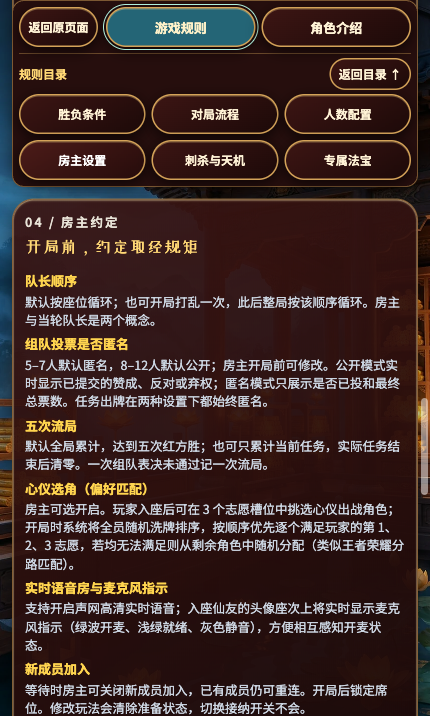
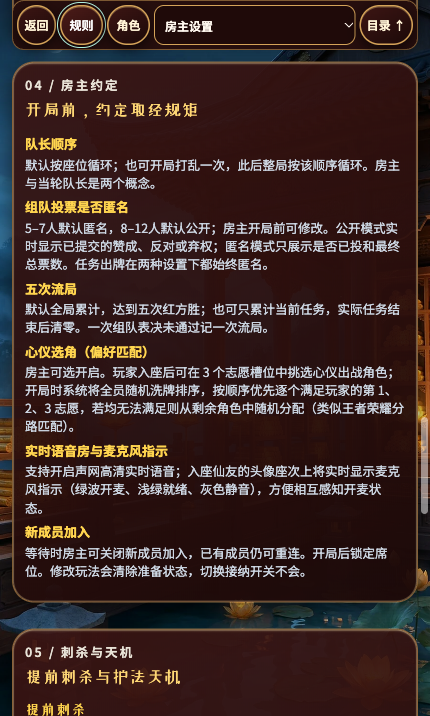
fix(web): shrink guide toolbar and remove duplicate top inset

diff --git a/docs/ui-navigation-spacing/viewport-audit.playwright.js b/docs/ui-navigation-spacing/viewport-audit.playwright.js
@@ -19,19 +19,26 @@ async (page) => {
       return { user, waiting: room, proposing, discussion: { ...proposing, game: projectGame(game, captainId) }, teamSize: team.length };
     });
   });
-  let current = fixtures[0], stage = 'waiting';
+  let current = fixtures[0], stage = 'waiting', simulatedSafeAreaTop = 0, waitingReady = true;
   await page.unrouteAll({ behavior: 'wait' });
+  // Simulate a browser reporting a top inset, including Vite's injected CSS.
+  await page.route('**/src/*.css', async route => {
+    const response = await route.fetch();
+    const body = (await response.text()).replace(/env\(safe-area-inset-top(?:,[^)]*)?\)/g, `${simulatedSafeAreaTop}px`);
+    await route.fulfill({ response, body });
+  });
   await page.route('**/api/**', route => {
     const path = new URL(route.request().url()).pathname;
+    const room = stage === 'waiting' ? { ...current.waiting, members: current.waiting.members.map(m => ({ ...m, ready: waitingReady })) } : current[stage];
     const json = path === '/api/me' ? { user: current.user, roomId: current[stage].id }
-      : path.includes('/rooms/') ? { room: current[stage], invite: '' }
+      : path.includes('/rooms/') ? { room, invite: '' }
       : path.endsWith('/friends') ? { friends: [] }
       : { announcement: { enabled: false, text: '' }, freeAccessMode: true };
     return route.fulfill({ json });
   });
   await page.routeWebSocket('**/api/rooms/*/socket', ws => ws.onMessage(() => {}));
   const viewports = [{ width: 320, height: 568 }, { width: 375, height: 553 }, { width: 390, height: 844 }, { width: 430, height: 716 }, { width: 640, height: 900 }];
-  const tables = [], guides = [];
+  const tables = [], guides = [], topInsets = [];
   const check = (condition, message, data) => { if (!condition) throw new Error(`${message}: ${JSON.stringify(data)}`); };
   const settle = () => page.evaluate(async () => { await document.fonts.ready; await new Promise(r => requestAnimationFrame(() => requestAnimationFrame(r))); });
   for (current of fixtures) {
@@ -64,6 +71,43 @@ async (page) => {
       tables.push({ count: current.waiting.settings.playerCount, viewport, stages: pair });
     }
   }
+  // Cover the nonzero inset missed by the original desktop-browser audit.
+  current = fixtures.at(-1);
+  simulatedSafeAreaTop = 44;
+  await page.setViewportSize({ width: 430, height: 716 });
+  const recordInset = async name => {
+    await page.evaluate(() => { window.scrollTo(0, 0); document.querySelector('main').scrollTop = 0; });
+    await settle();
+    const metrics = await page.evaluate(() => ({ top: document.querySelector('.room-top-bar').getBoundingClientRect().top, paddingTop: getComputedStyle(document.querySelector('main')).paddingTop, overflow: document.documentElement.scrollWidth > innerWidth }));
+    check(metrics.top === 4 && !metrics.overflow, 'Duplicate top inset', { name, simulatedSafeAreaTop, ...metrics });
+    topInsets.push({ name, simulatedSafeAreaTop, ...metrics });
+  };
+  for (stage of ['waiting', 'proposing', 'discussion']) {
+    await page.reload();
+    await page.locator(stage === 'waiting' ? '.waiting-settings-summary' : `[data-phase="${stage}"]`).waitFor();
+    await settle();
+    await recordInset(stage);
+  }
+  stage = 'waiting';
+  waitingReady = false;
+  await page.reload();
+  await page.getByRole('dialog', { name: '准备提醒', exact: true }).waitFor();
+  await page.getByRole('button', { name: '稍后准备', exact: true }).click();
+  await recordInset('waiting-unready');
+  await page.screenshot({ path: 'docs/ui-navigation-spacing/waiting-inset-430.png' });
+  await page.getByRole('button', { name: /幻化分身试玩/ }).click();
+  await page.locator('.is-practice-top-bar').waitFor();
+  await page.getByRole('button', { name: '⚡ 电脑代操下一步', exact: true }).click();
+  for (let i = 0; i < current.teamSize; i++) await page.locator('.table-seat-card').nth(i).click();
+  await page.getByRole('button', { name: `预选阵容 (${current.teamSize}/${current.teamSize})`, exact: true }).waitFor();
+  await recordInset('practice-proposing');
+  await page.getByRole('button', { name: `预选阵容 (${current.teamSize}/${current.teamSize})`, exact: true }).click();
+  await page.locator('[data-phase="discussion"]').waitFor();
+  await page.getByRole('button', { name: '已确认阵容 · 开启投票', exact: true }).waitFor();
+  await recordInset('practice-discussion');
+  await page.screenshot({ path: 'docs/ui-navigation-spacing/practice-inset-430.png' });
+  await page.getByRole('button', { name: '退出试玩', exact: true }).click();
+  waitingReady = true;
   stage = 'waiting';
   for (const viewport of viewports) {
     await page.setViewportSize(viewport);
@@ -72,30 +116,33 @@ async (page) => {
     for (const category of ['游戏规则', '角色介绍']) {
       await page.getByRole('button', { name: category, exact: true }).click();
       await settle();
-      const buttons = page.locator('.guide-index button');
-      const count = await buttons.count();
+      const select = page.getByRole('combobox', { name: category === '游戏规则' ? '跳转规则章节' : '跳转角色介绍', exact: true });
+      const options = await select.locator('option').evaluateAll(es => es.filter(e => e.value).map(e => ({ id: e.value, title: e.textContent })));
+      const count = options.length;
       for (let i = 0; i < count; i++) {
-        await buttons.nth(i).click();
-        const metrics = await page.evaluate(({ category, i }) => {
+        await select.selectOption(options[i].id);
+        const metrics = await page.evaluate(id => {
           const nav = document.querySelector('.guide-navigation').getBoundingClientRect();
-          const targets = category === '游戏规则' ? [...document.querySelectorAll('.guide-section')]
-            : [...document.querySelectorAll('.guide-index button')].map(b => [...document.querySelectorAll('.guide-role')].find(r => r.querySelector('h3')?.textContent.includes(b.textContent)));
-          const target = targets[i]?.getBoundingClientRect();
-          return { navTop: nav.top, navBottom: nav.bottom, targetTop: target?.top, visibleButtons: [...document.querySelectorAll('.guide-navigation button')].every(b => { const r = b.getBoundingClientRect(); return r.left >= 0 && r.right <= innerWidth && r.top >= 0 && r.bottom <= innerHeight; }), overflow: document.documentElement.scrollWidth > innerWidth };
-        }, { category, i });
-        check(metrics.visibleButtons && !metrics.overflow && metrics.targetTop >= metrics.navBottom - 1 && metrics.targetTop < viewport.height, 'Chapter hidden by navigation', { viewport, category, i, ...metrics });
+          const target = document.getElementById(id)?.getBoundingClientRect();
+          return { navTop: nav.top, navBottom: nav.bottom, navHeight: nav.height, targetTop: target?.top, visibleControls: [...document.querySelectorAll('.guide-navigation button,.guide-navigation select')].every(b => { const r = b.getBoundingClientRect(); return r.width > 0 && r.left >= 0 && r.right <= innerWidth && r.top >= 0 && r.bottom <= innerHeight; }), overflow: document.documentElement.scrollWidth > innerWidth };
+        }, options[i].id);
+        check(metrics.navHeight <= 54 && metrics.visibleControls && !metrics.overflow && metrics.targetTop >= metrics.navBottom - 1 && metrics.targetTop < viewport.height, 'Chapter hidden or toolbar too tall', { viewport, category, i, ...metrics });
       }
       if (category === '游戏规则') {
         check(await page.locator('.guide-config').count() === 8 && await page.locator('.guide-rules details').count() === 0, 'Configuration is hidden');
-        await page.getByRole('button', { name: '房主设置', exact: true }).click();
+        await select.selectOption('guide-rule-4');
       }
       if (viewport.width === 430) await page.screenshot({ path: `docs/ui-navigation-spacing/${category === '游戏规则' ? 'rules' : 'roles'}-430.png` });
-      await page.getByRole('button', { name: '返回目录 ↑', exact: true }).click();
-      check(await page.evaluate(() => scrollY) === 0, 'Return to directory failed', { viewport, category });
-      guides.push({ viewport, category, chapters: count, pass: true });
+      await page.getByRole('button', { name: '返回目录', exact: true }).click();
+      const directory = await page.locator('#guide-directory').boundingBox(), toolbar = await page.locator('.guide-navigation').boundingBox();
+      check(directory.y >= toolbar.y + toolbar.height && directory.y < viewport.height, 'Return to directory failed', { viewport, category, directory, toolbar });
+      check(await page.locator('.guide-index button').count() === count, 'Missing full index entries', { viewport, category });
+      await page.locator('.guide-index button').first().click();
+      check(await select.inputValue() === options[0].id, 'Index does not synchronize jump selector', { viewport, category });
+      guides.push({ viewport, category, chapters: count, toolbarHeight: toolbar.height, pass: true });
     }
     await page.getByRole('button', { name: '返回原页面', exact: true }).click();
     await page.locator('.waiting-settings-summary').waitFor();
   }
-  return { tables, guides, pass: true };
+  return { tables, topInsets, guides, pass: true };
 }

diff --git a/apps/web/src/GuidePanel.tsx b/apps/web/src/GuidePanel.tsx
@@ -12,13 +12,16 @@ export { roleDescriptions, roleTreasures };
 
 const allRoles=Object.keys(roleNames) as Role[];
 const ruleChapters=['胜负条件','对局流程','人数配置','房主设置','刺杀与天机','专属法宝'];
-function GuideIndex({section}:{section:'rules'|'roles'}) {
-  const chapters=section==='rules'
+type GuideSection='rules'|'roles';
+function guideChapters(section:GuideSection) {
+  return section==='rules'
     ? ruleChapters.map((title,i)=>({title,id:`guide-rule-${i+1}`}))
     : allRoles.map(role=>({title:roleNames[role],id:`guide-role-${role}`}));
-  return <div className="guide-directory">
-    <div className="guide-index-heading"><span>{section==='rules'?'规则目录':'角色目录'}</span><button type="button" className="secondary" onClick={()=>window.scrollTo({top:0})}>返回目录 ↑</button></div>
-    <nav className="guide-index" aria-label={section==='rules'?'规则章节定位':'角色快速定位'}>{chapters.map(({title,id})=><button type="button" className="secondary" key={id} onClick={()=>document.getElementById(id)?.scrollIntoView({block:'start'})}>{title}</button>)}</nav>
+}
+function GuideIndex({section,onJump}:{section:GuideSection;onJump:(id:string)=>void}) {
+  return <div className="guide-directory" id="guide-directory">
+    <p className="guide-index-heading">{section==='rules'?'规则目录':'角色目录'}</p>
+    <nav className="guide-index" aria-label={section==='rules'?'规则章节定位':'角色快速定位'}>{guideChapters(section).map(({title,id})=><button type="button" className="secondary" key={id} onClick={()=>onJump(id)}>{title}</button>)}</nav>
   </div>;
 }
 function composition(roles:Role[]) {
@@ -257,7 +260,8 @@ export function GuideRoles() {
   );
 }
 export function GuidePanel({onBack}:{onBack:()=>void}) {
-  const [section,setSection]=useState<'rules'|'roles'>('rules');
+  const [section,setSection]=useState<GuideSection>('rules');
+  const [destination,setDestination]=useState('');
   const guideRef=useRef<HTMLElement>(null);
   const navigationRef=useRef<HTMLDivElement>(null);
   useLayoutEffect(()=>{
@@ -270,13 +274,26 @@ export function GuidePanel({onBack}:{onBack:()=>void}) {
     return ()=>observer.disconnect();
   },[]);
   usePageSound(section);
-  const changeSection=(next:'rules'|'roles')=>{setSection(next);window.scrollTo({top:0});};
+  const changeSection=(next:GuideSection)=>{setSection(next);setDestination('');window.scrollTo({top:0});};
+  const jumpTo=(id:string)=>{setDestination(id);document.getElementById(id)?.scrollIntoView({block:'start'});};
+  const returnToDirectory=()=>{setDestination('');document.getElementById('guide-directory')?.scrollIntoView({block:'start'});};
   return <section className="guide guide-flow" ref={guideRef}>
     <div className="guide-navigation" ref={navigationRef}>
-    <div className="guide-controls"><button className="secondary" onClick={onBack}>返回原页面</button><nav className="guide-nav" aria-label="说明分类"><button className="secondary" aria-pressed={section==='rules'} onClick={()=>changeSection('rules')}>游戏规则</button><button className="secondary" aria-pressed={section==='roles'} onClick={()=>changeSection('roles')}>角色介绍</button></nav></div>
-    <GuideIndex section={section}/>
+      <div className="guide-controls">
+        <button type="button" className="secondary" aria-label="返回原页面" onClick={onBack}>返回</button>
+        <nav className="guide-nav" aria-label="说明分类">
+          <button type="button" className="secondary" aria-label="游戏规则" aria-pressed={section==='rules'} onClick={()=>changeSection('rules')}>规则</button>
+          <button type="button" className="secondary" aria-label="角色介绍" aria-pressed={section==='roles'} onClick={()=>changeSection('roles')}>角色</button>
+        </nav>
+        <select className="guide-chapter-select" aria-label={section==='rules'?'跳转规则章节':'跳转角色介绍'} value={destination} onChange={e=>jumpTo(e.target.value)}>
+          <option value="" disabled>章节跳转</option>
+          {guideChapters(section).map(({title,id})=><option key={id} value={id}>{title}</option>)}
+        </select>
+        <button type="button" className="secondary" aria-label="返回目录" onClick={returnToDirectory}>目录 ↑</button>
+      </div>
     </div>
     <div className="guide-heading"><div><p className="eyebrow">JOURNEY TO THE WEST / 真假猴王秘卷</p><h1>《嘻游 · 真假猴王》</h1><p className="muted">一念佛魔皆幻相，谁是修道取经人</p></div></div>
+    <GuideIndex section={section} onJump={jumpTo}/>
     {section==='rules'?<GuideRules/>:<GuideRoles/>}
   </section>;
 }

diff --git a/apps/web/src/player-flow.css b/apps/web/src/player-flow.css
@@ -85,7 +85,7 @@ main.app-shell.is-live-table { --table-gap: 8px; }
 .game-play-priority .mission-submit-btn { margin-top: 0 !important; }
 /* Recover phone viewport space through spacing, preserving text and avatar sizes. */
 @media (max-width: 600px) {
-  main.app-shell.is-live-table { --table-gap: 4px; padding-top: max(4px, env(safe-area-inset-top)) !important; }
+  main.app-shell.is-live-table { --table-gap: 4px; padding-top: 4px !important; }
   .is-live-table .waiting-play-priority .scheme3-ink-ribbon { min-height: 36px !important; }
   .is-live-table .waiting-play-priority .table-seats-grid { margin: 0 !important; row-gap: 12px !important; }
   .is-live-table .waiting-play-priority .waiting-dock { padding: 6px 8px !important; }
@@ -118,18 +118,19 @@ main.app-shell.is-live-table { --table-gap: 8px; }
 .round-jump-nav > button { flex: 0 0 auto; width: auto; min-height: 36px; padding: 5px 10px; margin: 0; white-space: nowrap; font: 600 12px/1.4 var(--sans); }
 .round-jump-nav [aria-pressed="true"] { border-color: #ffd875; background: #67231e; }
 .battle-round-anchor { scroll-margin-top: 62px; }
-.guide-flow .guide-navigation { position: sticky; top: 0; z-index: 5; padding: 6px; background: #260e0d; border: 1px solid #d4a35980; border-radius: 12px; }
-.guide-flow .guide-controls { display: flex; align-items: center; justify-content: space-between; gap: 8px; }
-.guide-controls > button { flex: 0 0 auto; width: auto; min-height: 40px; margin: 0; padding: 5px 8px; font-size: 12px; }
-.guide-controls .guide-nav { flex: 0 1 340px; display: flex; gap: 6px; margin: 0; }
-.guide-controls .guide-nav > button { flex: 1; min-width: 0; min-height: 40px; margin: 0; padding: 5px 7px; font-size: 13px; }
+.guide-flow .guide-navigation { position: sticky; top: 0; z-index: 5; padding: 4px; background: #260e0d; border: 1px solid #d4a35980; border-radius: 12px; }
+.guide-flow .guide-controls { display: flex; align-items: center; gap: 4px; }
+.guide-controls > button { flex: 0 0 auto; width: auto; height: 40px; min-height: 40px; margin: 0; padding: 4px 6px; font: 600 12px/1.4 var(--sans); white-space: nowrap; }
+.guide-controls .guide-nav { flex: 0 0 auto; display: flex; gap: 4px; margin: 0; }
+.guide-controls .guide-nav > button { flex: 0 0 auto; width: auto; height: 40px; min-height: 40px; margin: 0; padding: 4px 8px; font: 600 12px/1.4 var(--sans); white-space: nowrap; }
+.guide-controls .guide-chapter-select { flex: 1 1 0; width: 0; min-width: 0; height: 40px; min-height: 40px; margin: 0; padding: 4px 6px; border: 1px solid #d4a359; border-radius: 10px; font: 600 12px/1.4 var(--sans); }
 .guide-flow .guide-heading { padding: 10px 12px; margin-top: 8px; }
-/* Keep every chapter reachable after a jump, with no collapsed menus. */
-.guide-index-heading { display: flex; align-items: center; justify-content: space-between; gap: 8px; margin-top: 6px; border-top: 1px solid #d4a35966; padding-top: 4px; font: 600 12px/1.4 var(--sans); color: #ffd875; }
-.guide-index-heading > button { width: auto; min-height: 32px; margin: 0; padding: 4px 8px; box-shadow: none; font: 600 12px/1.4 var(--sans); }
+/* Only the single-row toolbar follows scrolling; the full index stays in flow. */
+.guide-directory { padding: 8px; border: 1px solid #d4a35966; border-radius: 12px; background: #260e0df5; }
+.guide-index-heading { margin: 0 0 6px; font: 600 12px/1.4 var(--sans); color: #ffd875; }
 .guide-index { display: grid; grid-template-columns: repeat(3,minmax(0,1fr)); gap: 6px; margin: 4px 0 0; }
 .guide-index > button { width: 100%; min-width: 0; min-height: 40px; padding: 6px 4px; margin: 0; white-space: nowrap; font: 600 12px/1.4 var(--sans); }
-.guide-flow .guide-section, .guide-flow .guide-role { scroll-margin-top: calc(var(--guide-navigation-height, 240px) + 12px); }
+.guide-flow :is(.guide-directory, .guide-section, .guide-role) { scroll-margin-top: calc(var(--guide-navigation-height, 50px) + 12px); }
 @media (max-width: 380px) {
   .account-flow .profile-bar { flex-direction: column; align-items: stretch; }
   .game-result-actions .result-actions { width: 100%; }

diff --git a/apps/web/src/scenes.css b/apps/web/src/scenes.css
@@ -832,7 +832,8 @@ main.app-shell.is-live-table {
   min-height: 100dvh;
   height: auto !important;
   max-height: none !important;
-  padding: max(6px, env(safe-area-inset-top)) 10px max(24px, env(safe-area-inset-bottom)) !important;
+  /* The browser already positions this viewport below its top chrome. */
+  padding: 6px 10px max(24px, env(safe-area-inset-bottom)) !important;
   overflow-x: hidden !important;
   overflow-y: auto !important;
   -webkit-overflow-scrolling: touch !important;

diff --git a/docs/ui-navigation-spacing/README.md b/docs/ui-navigation-spacing/README.md
@@ -2,19 +2,22 @@
 
 验收环境：本机 Vite + Chromium，使用模拟房间数据；未连接或修改 ECS 房间。
 
-- 规则与角色页：分类、章节导航和“返回目录”一起吸顶。锚点避让按导航实际高度计算，切换分类及窄屏换行后仍适用。
+- 规则与角色页：仅 50px 高的单行工具栏吸顶，提供返回、规则/角色切换、章节选择和返回目录。完整目录置于正文顶部，随正文滚动；正文始终直接展示。锚点避让按工具栏实际高度计算。
 - 规则配置：5–12 人配置全部直接显示，移除折叠组件。
-- 等待页：与对局页共用间距变量；手机顶部留白及顶部三栏之间均为 4px，大屏三栏间距为 8px。配置摘要高度与对局摘要对齐。
+- 等待、对局与试玩页：移除对浏览器顶部安全区的额外留白；手机首栏距网页顶部为 4px。顶部三栏共用 4px 间距，大屏为 8px，配置摘要高度与对局摘要对齐。
 - 组队阶段：发言前为“预选阵容”，顶部提示为“待提交预选”；论道后仍为“已确认阵容 · 开启投票”。
 
-验证：`npm run build`、61 项前端测试，以及浏览器布局检查。
+验证：`npm run build`、`guide-countdown.test.ts` 的 3 项相关测试，以及浏览器布局检查。
 
 | 检查 | 覆盖范围 | 结果 |
 | --- | --- | --- |
 | 等待 / 预选 / 论道 | 5、8、12 人 × 320×568、375×553、390×844、430×716、640×900 | 45 组通过，间距一致，无横向溢出 |
-| 规则 / 角色导航 | 同上五种视口，逐一点击 6 个规则章节、9 个角色 | 导航按钮可见，目标未被遮挡，返回目录与返回原页面正常 |
+| 非零顶部安全区 | 模拟 44px，覆盖等待、未准备、对局预选/论道、试玩预选/论道 | 6 组通过，首栏距网页顶部仍为 4px |
+| 规则 / 角色导航 | 同上五种视口，逐一跳转 6 个规则章节、9 个角色 | 工具栏均为 50px 高，控件可见，目标未被遮挡，目录与原页面可返回 |
 | 配置展开与阶段文案 | 直接渲染规则、游戏状态流转与浏览器检查 | 通过 |
 
 详细结果：[viewport-audit.json](viewport-audit.json)。复测时启动 `npm run dev:web`，打开本机 Vite 页面，通过 Playwright 的 `browser_run_code_unsafe` 运行 [viewport-audit.playwright.js](viewport-audit.playwright.js)。脚本仅拦截本机接口并生成模拟数据。
 
-截图：[等待页](waiting-430.png)、[预选阵容](proposing-430.png)、[规则导航](rules-430.png)、[角色导航](roles-430.png)。
+安全区模拟方式：在浏览器加载样式时，将 CSS 中的 `env(safe-area-inset-top)` 替换为 44px。旧样式因此产生 44px 顶部空白；修改后首栏保持在 4px。该检查用于覆盖非零安全区条件，不能替代用户手机浏览器的发布后复测。
+
+截图：[等待页](waiting-430.png)、[预选阵容](proposing-430.png)、[规则导航](rules-430.png)、[角色导航](roles-430.png)、[模拟安全区下的未准备房间](waiting-inset-430.png)、[模拟安全区下的试玩论道](practice-inset-430.png)。
